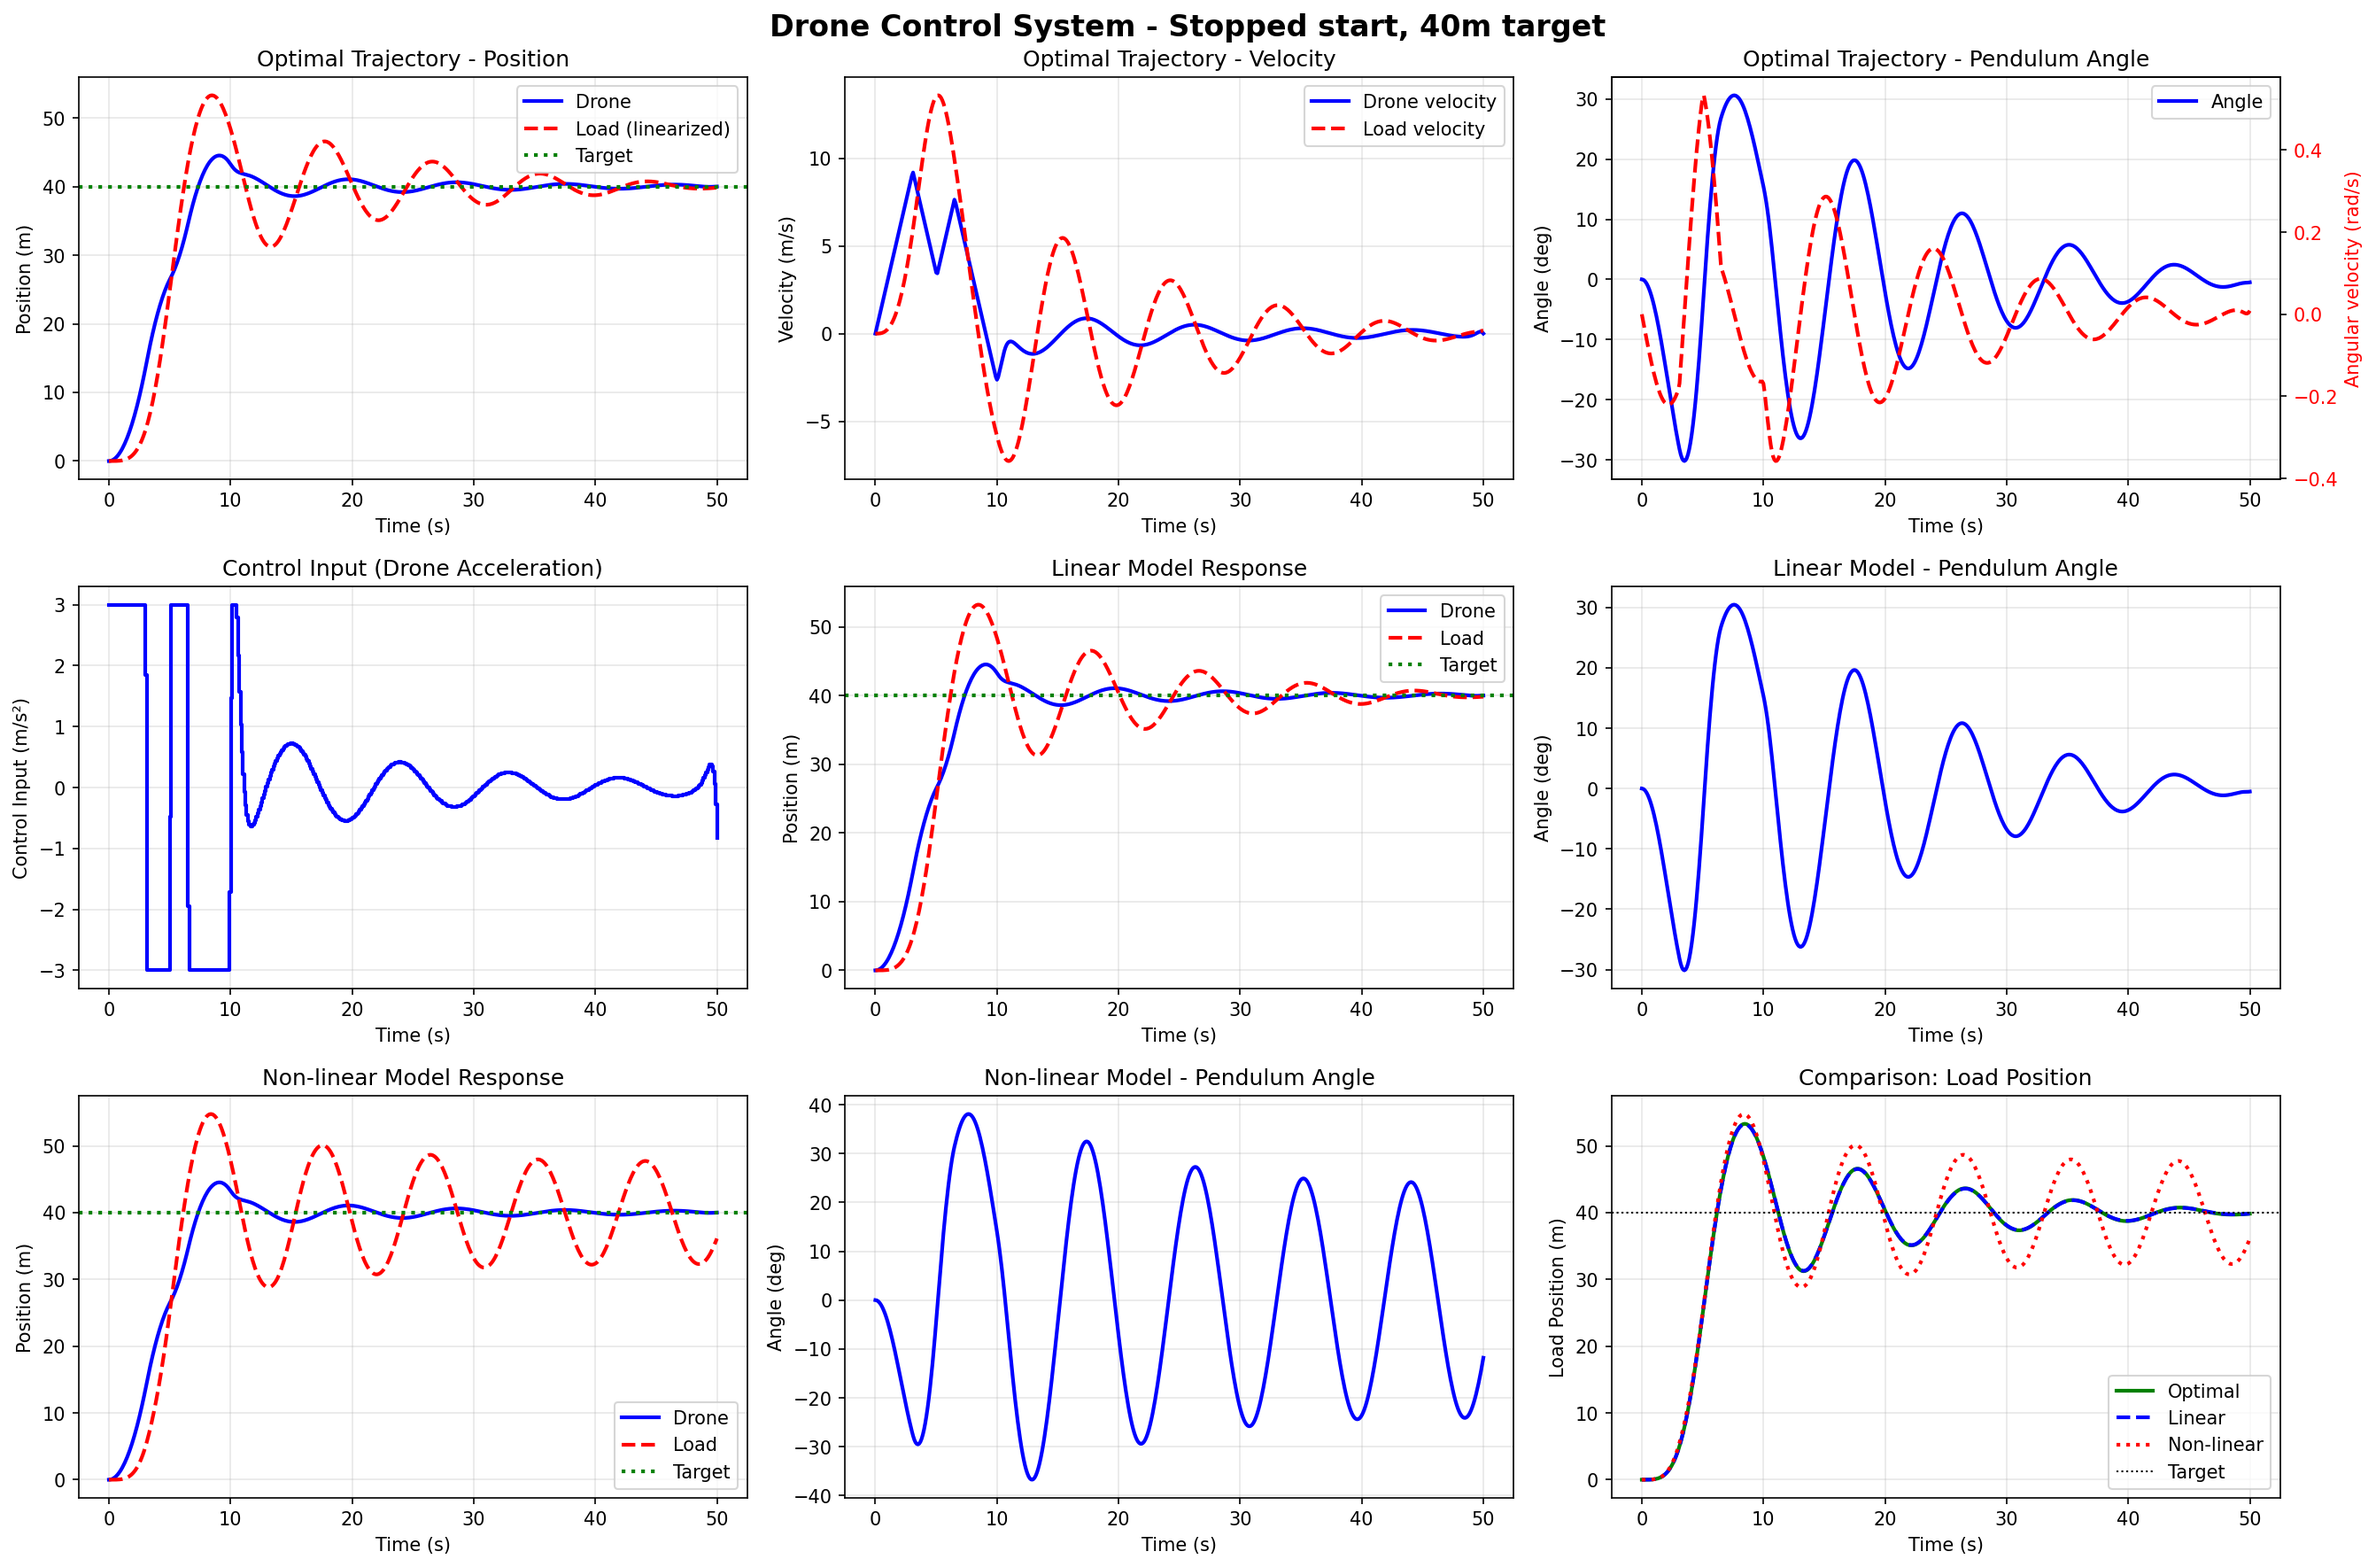
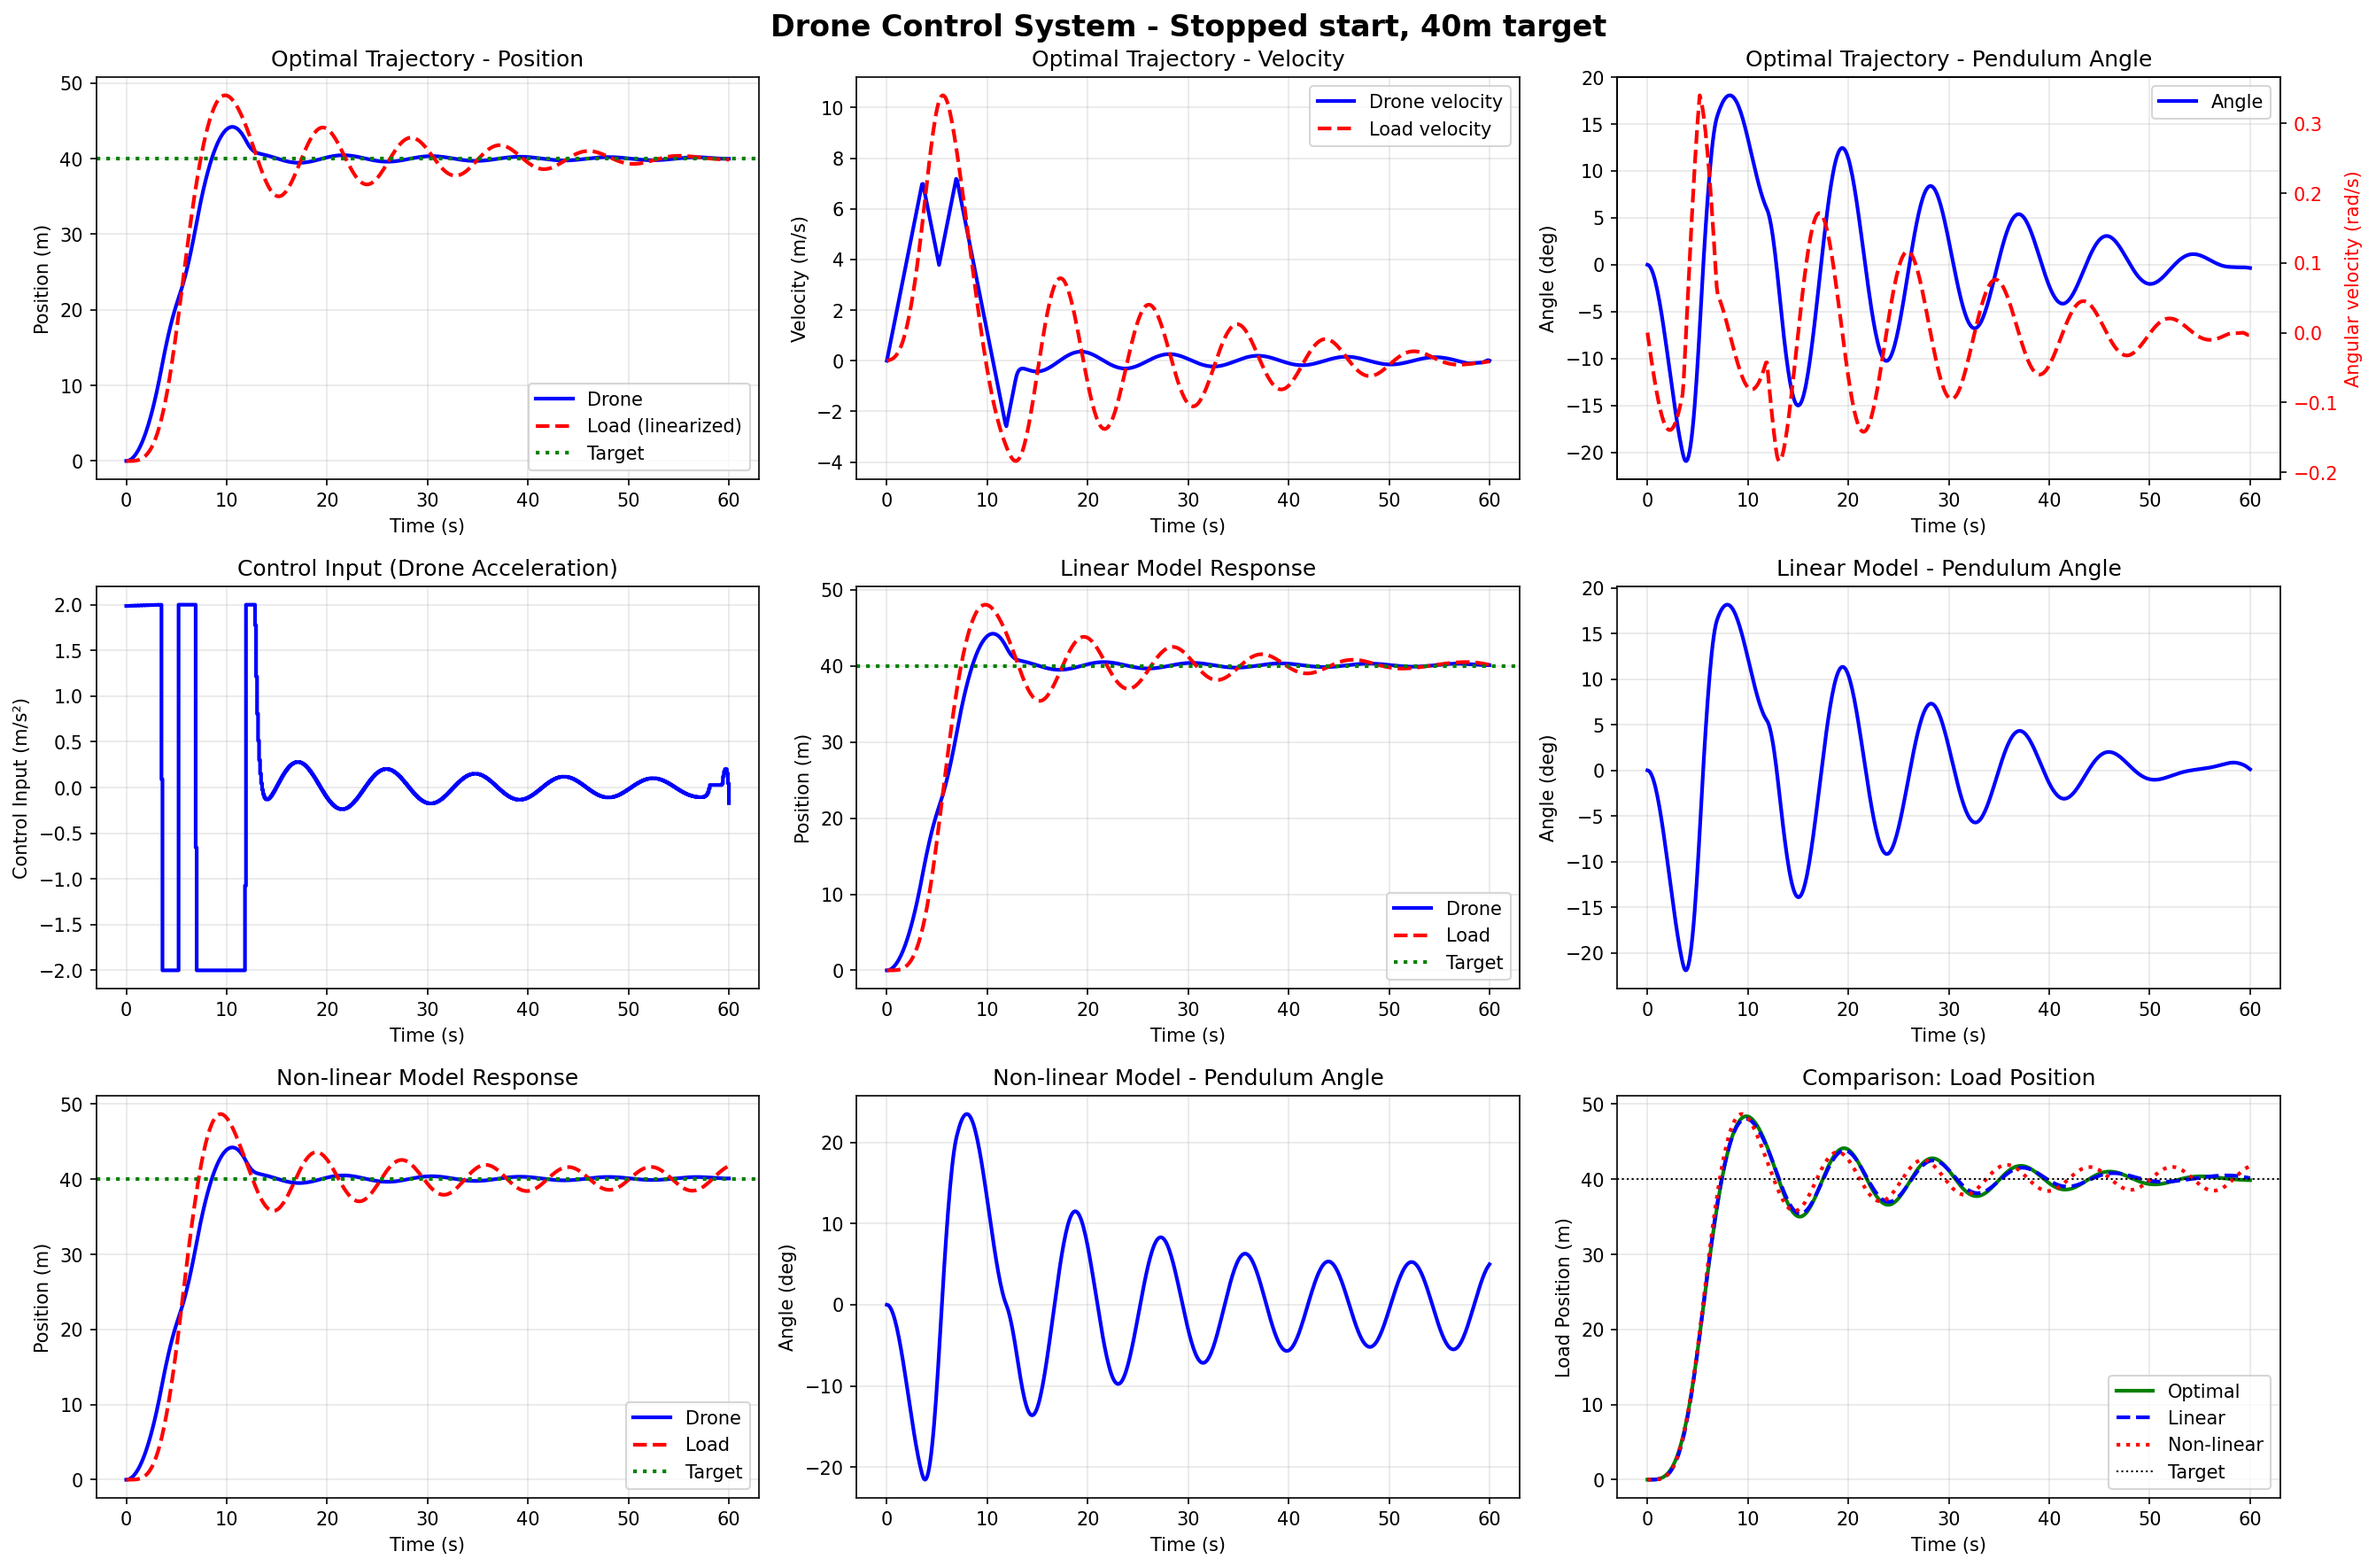
Improve controller with conservative tuning and balanced horizons

diff --git a/drone_control.py b/drone_control.py
@@ -105,12 +105,16 @@ class DroneLoadSystem:
         
         return np.array([x_d_dot, v_d_dot, theta_dot, omega_dot])
     
-    def linearized_dynamics(self):
+    def linearized_dynamics(self, use_damping=False, damping_coeff=0.1):
         """
         Linearize system around equilibrium point:
         - Load directly below drone (theta = 0)
         - No velocity (v_d = 0, omega = 0)
         - No aerodynamic drag (v_l = 0)
+        
+        Args:
+            use_damping: if True, add artificial damping to approximate drag effects
+            damping_coeff: damping coefficient for velocity terms
         
         Returns:
             A, B: state-space matrices for continuous-time linear system
@@ -121,12 +125,21 @@ class DroneLoadSystem:
         # Small angle approximation: sin(theta) ≈ theta, cos(theta) ≈ 1
         
         # A matrix (4x4)
-        A = np.array([
-            [0, 1, 0, 0],           # x_d_dot = v_d
-            [0, 0, 0, 0],           # v_d_dot = u
-            [0, 0, 0, 1],           # theta_dot = omega
-            [0, 0, -self.g/self.L, 0]  # omega_dot = -g/L * theta - u/L
-        ])
+        if use_damping:
+            # Add damping terms to velocities
+            A = np.array([
+                [0, 1, 0, 0],           # x_d_dot = v_d
+                [0, -damping_coeff, 0, 0],  # v_d_dot = u - damping * v_d
+                [0, 0, 0, 1],           # theta_dot = omega
+                [0, 0, -self.g/self.L, -damping_coeff]  # omega_dot with damping
+            ])
+        else:
+            A = np.array([
+                [0, 1, 0, 0],           # x_d_dot = v_d
+                [0, 0, 0, 0],           # v_d_dot = u
+                [0, 0, 0, 1],           # theta_dot = omega
+                [0, 0, -self.g/self.L, 0]  # omega_dot = -g/L * theta - u/L
+            ])
         
         # B matrix (4x1)
         B = np.array([
@@ -206,7 +219,7 @@ class OptimalController:
         self.Ts = Ts
         
         # Get linearized discrete-time model
-        A_cont, B_cont, self.C = system.linearized_dynamics()
+        A_cont, B_cont, self.C = system.linearized_dynamics(use_damping=False)
         self.Ad, self.Bd = system.discretize(A_cont, B_cont, Ts)
         
         # Performance metrics
@@ -236,11 +249,11 @@ class OptimalController:
         x = cp.Variable((n, N_horizon + 1))
         u = cp.Variable((m, N_horizon))
         
-        # Cost function weights - tuned for slower, more controlled motion
-        # Higher terminal penalties ensure precise final conditions
-        Q_final = np.diag([10000.0, 1000.0, 5000.0, 1000.0])  # Increased final state penalty
-        R = np.diag([0.1])  # Increased control penalty for smoother motion
-        Q_running = np.diag([10.0, 1.0, 100.0, 50.0])  # Increased running penalties
+        # Cost function weights - tuned for slower, more controlled motion to handle drag
+        # Much higher penalties to enforce very conservative behavior
+        Q_final = np.diag([20000.0, 2000.0, 10000.0, 2000.0])  # Very high final state penalty
+        R = np.diag([0.5])  # High control penalty for very smooth motion
+        Q_running = np.diag([50.0, 10.0, 200.0, 100.0])  # High running penalties
         
         # Target state (load at x_target, all velocities zero, drone above load)
         x_ref = np.array([x_target, 0.0, 0.0, 0.0])
@@ -266,14 +279,14 @@ class OptimalController:
         for k in range(N_horizon):
             constraints.append(x[:, k+1] == self.Ad @ x[:, k] + self.Bd @ u[:, k])
         
-        # Control constraints - reduced for gentler motion
-        u_max_actual = min(u_max, 3.0)  # Limit to 3 m/s² for smoother operation
+        # Control constraints - very conservative for handling drag
+        u_max_actual = min(u_max, 2.0)  # Limit to 2 m/s² for very smooth operation
         for k in range(N_horizon):
             constraints.append(u[:, k] <= u_max_actual)
             constraints.append(u[:, k] >= -u_max_actual)
         
-        # Angle constraints (safety)
-        max_angle = np.pi/6  # 30 degrees max
+        # Angle constraints (safety) - more conservative
+        max_angle = np.pi/10  # 18 degrees max for better linearization validity
         for k in range(N_horizon + 1):
             constraints.append(x[2, k] <= max_angle)
             constraints.append(x[2, k] >= -max_angle)
@@ -286,11 +299,11 @@ class OptimalController:
         
         # Add constraints to ensure smooth deceleration near the end
         # Velocity should decrease in the last portion
-        for k in range(int(N_horizon * 0.8), N_horizon):
-            # Gradually decrease maximum allowed velocity
-            progress = (k - int(N_horizon * 0.8)) / (N_horizon - int(N_horizon * 0.8))
-            v_max = 1.0 * (1 - progress)  # Linearly decrease to 0
-            constraints.append(cp.abs(x[1, k]) <= v_max + 0.1)
+        for k in range(int(N_horizon * 0.7), N_horizon):
+            # Gradually decrease maximum allowed velocity earlier
+            progress = (k - int(N_horizon * 0.7)) / (N_horizon - int(N_horizon * 0.7))
+            v_max = 0.5 * (1 - progress)  # Linearly decrease to 0, max 0.5 m/s
+            constraints.append(cp.abs(x[1, k]) <= v_max + 0.05)
         
         # Solve optimization problem
         problem = cp.Problem(cp.Minimize(cost), constraints)
@@ -699,37 +712,37 @@ if __name__ == "__main__":
     print(f"Ad matrix:\n{Ad}")
     print(f"\nBd matrix:\n{Bd}")
     
-    # Test scenarios - with longer horizons for better settling
+    # Test scenarios - balanced horizons for demonstration
     scenarios = [
         {
             'name': 'Stopped start, 20m target',
             'x0': np.array([0.0, 0.0, 0.0, 0.0]),
             'x_target': 20.0,
-            'N': 300  # Longer horizon for better settling
+            'N': 400  
         },
         {
             'name': 'Stopped start, 40m target',
             'x0': np.array([0.0, 0.0, 0.0, 0.0]),
             'x_target': 40.0,
-            'N': 500
+            'N': 600
         },
         {
             'name': 'Stopped start, 80m target',
             'x0': np.array([0.0, 0.0, 0.0, 0.0]),
             'x_target': 80.0,
-            'N': 800
+            'N': 1000
         },
         {
             'name': 'Moving start, 20m target',
             'x0': np.array([0.0, 2.0, 0.05, 0.0]),  # v_d=2m/s, theta=~3deg
             'x_target': 20.0,
-            'N': 300
+            'N': 400
         },
         {
             'name': 'Moving start, 40m target',
             'x0': np.array([0.0, 1.5, -0.05, 0.02]),  # v_d=1.5m/s, theta=-3deg, omega=0.02rad/s
             'x_target': 40.0,
-            'N': 500
+            'N': 600
         },
     ]
     
